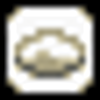
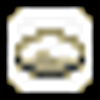
Add scroll button to jump to next crop on mobile; sharpen weather button images

diff --git a/dist/bundle.js b/dist/bundle.js
@@ -1,1 +1,1 @@
-(()=>{var t={891:(t,e,a)=>{"use strict";a.r(e),a.d(e,{default:()=>s});const s=a.p+"images//down-arrow.png"},447:(t,e,a)=>{"use strict";a.r(e),a.d(e,{default:()=>s});const s=a.p+"images//hmsi_blizzard.png"},17:(t,e,a)=>{"use strict";a.r(e),a.d(e,{default:()=>s});const s=a.p+"images//hmsi_clear.png"},469:(t,e,a)=>{"use strict";a.r(e),a.d(e,{default:()=>s});const s=a.p+"images//hmsi_cloudy.png"},969:(t,e,a)=>{"use strict";a.r(e),a.d(e,{default:()=>s});const s=a.p+"images//hmsi_drizzle.png"},237:(t,e,a)=>{"use strict";a.r(e),a.d(e,{default:()=>s});const s=a.p+"images//hmsi_hurricane.png"},59:(t,e,a)=>{"use strict";a.r(e),a.d(e,{default:()=>s});const s=a.p+"images//hmsi_rainy.png"},565:(t,e,a)=>{"use strict";a.r(e),a.d(e,{default:()=>s});const s=a.p+"images//hmsi_snowy.png"},953:(t,e,a)=>{"use strict";a.r(e),a.d(e,{default:()=>s});const s=a.p+"images//hmsi_sunny.png"},467:(t,e,a)=>{var s={"./down-arrow.png":891,"./hmsi_blizzard.png":447,"./hmsi_clear.png":17,"./hmsi_cloudy.png":469,"./hmsi_drizzle.png":969,"./hmsi_hurricane.png":237,"./hmsi_rainy.png":59,"./hmsi_snowy.png":565,"./hmsi_sunny.png":953};function r(t){var e=n(t);return a(e)}function n(t){if(!a.o(s,t)){var e=new Error("Cannot find module '"+t+"'");throw e.code="MODULE_NOT_FOUND",e}return s[t]}r.keys=function(){return Object.keys(s)},r.resolve=n,t.exports=r,r.id=467}},e={};function a(s){var r=e[s];if(void 0!==r)return r.exports;var n=e[s]={exports:{}};return t[s](n,n.exports,a),n.exports}a.d=(t,e)=>{for(var s in e)a.o(e,s)&&!a.o(t,s)&&Object.defineProperty(t,s,{enumerable:!0,get:e[s]})},a.g=function(){if("object"==typeof globalThis)return globalThis;try{return this||new Function("return this")()}catch(t){if("object"==typeof window)return window}}(),a.o=(t,e)=>Object.prototype.hasOwnProperty.call(t,e),a.r=t=>{"undefined"!=typeof Symbol&&Symbol.toStringTag&&Object.defineProperty(t,Symbol.toStringTag,{value:"Module"}),Object.defineProperty(t,"__esModule",{value:!0})},(()=>{var t;a.g.importScripts&&(t=a.g.location+"");var e=a.g.document;if(!t&&e&&(e.currentScript&&(t=e.currentScript.src),!t)){var s=e.getElementsByTagName("script");s.length&&(t=s[s.length-1].src)}if(!t)throw new Error("Automatic publicPath is not supported in this browser");t=t.replace(/#.*$/,"").replace(/\?.*$/,"").replace(/\/[^\/]+$/,"/"),a.p=t})(),(()=>{"use strict";a.p;const t=function(){let t=0;return{getNewId:()=>(t++,localStorage.setItem("localCropId",JSON.stringify(t)),t),updateIdWithLocal:e=>{t=Number(e)}}}();class e{constructor(e){this._totalDays=e._totalDays||0,this._totalWater=e._totalWater||0,this._totalSun=e._totalSun||0,this._ages=[{stage:"withered"}],this._currentAge=e._currentAge||0,this._id=e._id||t.getNewId(),this._regrow=!1,this._previousTotals}increaseDays(){this._totalDays++}increaseWater(t){this._totalWater+=t}increaseSun(t){this._totalSun+=t}get age(){return this._ages[this._currentAge]}get id(){return this._id}get regrowStatus(){return this._regrow}get water(){return this._totalWater}get sun(){return this._totalSun}get waterNeeded(){if(!this.age.water)return"Water N/A";const t=this.age.water.min-this._totalWater;return t>=0?`Water Needed: ${t}`:"Max Water: "+(this.age.water.max-this._totalWater)}get sunNeeded(){if(!this.age.sun)return"Sun N/A";const t=this.age.sun.min-this._totalSun;return t>=0?`Sun Needed: ${t}`:"Max Sun: "+(this.age.sun.max-this._totalSun)}get daysNeeded(){if(!this.age.days)return"Days N/A";const t=this.age.days-this._totalDays;return t>=0?`Days Left: ${t}`:"Days Left: 0"}nextDay(t){this._previousTotals=[this._currentAge,this._totalDays,this._totalWater,this._totalSun],this.increaseDays(),this.increaseSun(t.sun),this.increaseWater(t.water),this.checkStatus()}resetTotals(){this._totalDays=0,this._totalWater=0,this._totalSun=0}regrowCrop(){if(this._regrow){let t=this._ages.find((t=>t.stage===this._regrow)),e=this._ages.indexOf(t);this._currentAge=e}}ageCrop(){this._currentAge++,this.resetTotals()}witherCrop(){let t=this._ages.find((t=>"withered"===t.stage));this._currentAge=this._ages.indexOf(t)}removeLastDay(){this._previousTotals&&([this._currentAge,this._totalDays,this._totalWater,this._totalSun]=this._previousTotals)}checkStatus(){let t=this.age;if("withered"!==t.stage)if(this._totalWater>t.water.max||this._totalSun>t.sun.max)this.witherCrop();else if(this._totalDays>=t.days){if("mature"===t.stage)return void this.witherCrop();this._totalWater>=t.water.min&&this._totalSun>=t.sun.min&&this.ageCrop()}}}const s={Turnip:class extends e{constructor(t={}){super(t),this.cropType="Turnip",this._ages.unshift({stage:"seed",days:2,sun:{min:3,max:19},water:{min:2,max:19}},{stage:"sprout",days:2,sun:{min:3,max:19},water:{min:2,max:19}},{stage:"mature",days:10,sun:{max:39},water:{max:19}})}},Potato:class extends e{constructor(t={}){super(t),this.cropType="Potato",this._ages.unshift({stage:"seed",days:3,sun:{min:4,max:19},water:{min:3,max:19}},{stage:"sprout",days:4,sun:{min:6,max:27},water:{min:4,max:27}},{stage:"mature",days:10,sun:{max:19},water:{max:9}})}},Cucumber:class extends e{constructor(t={}){super(t),this.cropType="Cucumber",this._ages.unshift({stage:"seed",days:4,sun:{min:7,max:29},water:{min:3,max:11}},{stage:"sprout",days:3,sun:{min:5,max:23},water:{min:2,max:7}},{stage:"sprout2",days:2,sun:{min:4,max:17},water:{min:2,max:9}},{stage:"mature",days:10,sun:{max:19},water:{max:7}}),this._regrow="sprout2"}},Cabbage:class extends e{constructor(t={}){super(t),this.cropType="Cabbage",this._ages.unshift({stage:"seed",days:4,sun:{min:9,max:24},water:{min:3,max:11}},{stage:"sprout",days:5,sun:{min:12,max:29},water:{min:4,max:11}},{stage:"sprout2",days:5,sun:{min:12,max:26},water:{min:5,max:15}},{stage:"mature",days:10,sun:{max:9},water:{max:9}})}},Strawberry:class extends e{constructor(t={}){super(t),this.cropType="Strawberry",this._ages.unshift({stage:"seed",days:4,sun:{min:4,max:9},water:{min:4,max:11}},{stage:"sprout",days:3,sun:{min:3,max:9},water:{min:3,max:11}},{stage:"sprout2",days:2,sun:{min:3,max:5},water:{min:2,max:7}},{stage:"mature",days:10,sun:{max:9},water:{max:9}}),this._regrow="sprout2"}},Tomato:class extends e{constructor(t={}){super(t),this.cropType="Tomato",this._ages.unshift({stage:"seed",days:3,sun:{min:7,max:24},water:{min:3,max:11}},{stage:"sprout",days:3,sun:{min:7,max:24},water:{min:2,max:9}},{stage:"sprout2",days:3,sun:{min:7,max:19},water:{min:2,max:9}},{stage:"sprout3",days:3,sun:{min:9,max:24},water:{min:2,max:11}},{stage:"mature",days:10,sun:{max:19},water:{max:7}}),this._regrow="sprout3"}},Corn:class extends e{constructor(t={}){super(t),this.cropType="Corn",this._ages.unshift({stage:"seed",days:3,sun:{min:5,max:9},water:{min:3,max:11}},{stage:"sprout",days:4,sun:{min:8,max:19},water:{min:4,max:19}},{stage:"sprout2",days:4,sun:{min:8,max:24},water:{min:4,max:19}},{stage:"sprout3",days:3,sun:{min:8,max:24},water:{min:3,max:15}},{stage:"mature",days:10,sun:{max:19},water:{max:19}}),this._regrow="sprout3"}},Onion:class extends e{constructor(t={}){super(t),this.cropType="Onion",this._ages.unshift({stage:"seed",days:3,sun:{min:3,max:14},water:{min:3,max:9}},{stage:"sprout",days:4,sun:{min:4,max:29},water:{min:4,max:13}},{stage:"mature",days:10,sun:{max:14},water:{max:9}})}},Pumpkin:class extends e{constructor(t={}){super(t),this.cropType="Pumpkin",this._ages.unshift({stage:"seed",days:4,sun:{min:12,max:29},water:{min:4,max:11}},{stage:"sprout",days:5,sun:{min:13,max:39},water:{min:5,max:13}},{stage:"sprout2",days:5,sun:{min:16,max:39},water:{min:5,max:15}},{stage:"mature",days:10,sun:{max:19},water:{max:5}})}},Pineapple:class extends e{constructor(t={}){super(t),this.cropType="Pineapple",this._ages.unshift({stage:"seed",days:5,sun:{min:12,max:34},water:{min:5,max:15}},{stage:"sprout",days:5,sun:{min:12,max:29},water:{min:6,max:19}},{stage:"sprout2",days:5,sun:{min:10,max:34},water:{min:6,max:15}},{stage:"mature",days:10,sun:{max:19},water:{max:11}}),this._regrow="sprout2"}},Eggplant:class extends e{constructor(t={}){super(t),this.cropType="Eggplant",this._ages.unshift({stage:"seed",days:3,sun:{min:5,max:22},water:{min:3,max:11}},{stage:"sprout",days:3,sun:{min:8,max:24},water:{min:4,max:13}},{stage:"sprout2",days:3,sun:{min:8,max:24},water:{min:3,max:15}},{stage:"mature",days:10,sun:{max:19},water:{max:9}}),this._regrow="sprout2"}},Carrot:class extends e{constructor(t={}){super(t),this.cropType="Carrot",this._ages.unshift({stage:"seed",days:3,sun:{min:5,max:19},water:{min:3,max:11}},{stage:"sprout",days:4,sun:{min:6,max:24},water:{min:4,max:15}},{stage:"mature",days:10,sun:{max:14},water:{max:3}})}},Yam:class extends e{constructor(t={}){super(t),this.cropType="Yam",this._ages.unshift({stage:"seed",days:1,sun:{min:2,max:5},water:{min:1,max:7}},{stage:"sprout",days:2,sun:{min:3,max:11},water:{min:1,max:3}},{stage:"sprout2",days:2,sun:{min:3,max:9},water:{min:1,max:3}},{stage:"mature",days:10,sun:{max:14},water:{max:3}}),this._regrow="sprout2"}},Spinach:class extends e{constructor(t={}){super(t),this.cropType="Spinach",this._ages.unshift({stage:"seed",days:2,sun:{min:2,max:9},water:{min:2,max:7}},{stage:"sprout",days:3,sun:{min:3,max:11},water:{min:2,max:7}},{stage:"mature",days:10,sun:{max:9},water:{max:3}})}},BellPepper:class extends e{constructor(t={}){super(t),this.cropType="BellPepper",this._ages.unshift({stage:"seed",days:2,sun:{min:5,max:17},water:{min:2,max:9}},{stage:"sprout",days:1,sun:{min:3,max:9},water:{min:1,max:5}},{stage:"sprout2",days:2,sun:{min:4,max:11},water:{min:2,max:15}},{stage:"sprout3",days:2,sun:{min:4,max:11},water:{min:1,max:15}},{stage:"mature",days:10,sun:{max:19},water:{max:9}}),this._regrow="sprout3"}}},r={Spring:["Turnip","Potato","Cucumber","Cabbage","Strawberry"],Summer:["Tomato","Corn","Onion","Pumpkin","Pineapple"],Fall:["Eggplant","Carrot","Yam","Spinach","BellPepper"]},n=function(){let t=[];return{weatherButton:e=>{t[0]=e,localStorage.setItem("localLastWeatherPressed",JSON.stringify(t[0]))},getLastWeather:()=>t[0],getLocalLastWeather:e=>{let a=JSON.parse(e);t[0]=a},removeLastWeather:()=>t.pop()}}(),i=function(){let t=[];const e=()=>{localStorage.setItem("localMyCrops",JSON.stringify(t))},a=e=>t.find((t=>t.id===Number(e.getAttribute("data-id"))));return{getCrops:()=>t,addCrop:e=>{const a=n.getLastWeather();document.getElementById("apply-days-weather").checked&&a&&(e.increaseWater(a.water),e.increaseSun(a.sun)),t.push(e)},removeCrop:s=>{let r=a(s),n=t.indexOf(r);t.splice(n,1),e()},checkRegrow:t=>{let s=a(t);return!!s.regrowStatus&&(s.regrowCrop(),e(),s)},waterCrop:t=>{let s=a(t);return s.increaseWater(1),e(),s},undoLastWeather:()=>{n.removeLastWeather()&&t.forEach((t=>t.removeLastDay())),e()},replaceWithLocalCrops:e=>{let a=[],r=JSON.parse(e);for(let t of r){let e=new s[t.cropType](t);a.push(e)}t=a},setLocalCrops:e}}(),o=function(t,e){const a=document.createElement(t);return a.classList.add(e),a},u=function(t){let e=t.split(""),a=e.slice(1).find((t=>t.match(/[A-Z]/)));if(a){let t=e.slice(1).indexOf(a);return e.splice(t+1,0," "),e.join("")}return t},m=function(t,e,a){const s={name:`${u(a.constructor.name)}`,stage:`Stage: ${a.age.stage}`,days:`${a.daysNeeded}`,water:`${a.waterNeeded}`,sun:`${a.sunNeeded}`};t.innerText=s[e]},c=function(t,e){const a=t.querySelector(".growing-crop-stage");m(a,"stage",e),function(t,e){"mature"===e.age.stage?t.classList.remove("hidden"):t.classList.add("hidden")}(t.querySelector(".harvest-button"),e);const s=t.querySelector(".growing-crop-days");m(s,"days",e);const r=t.querySelector(".growing-crop-water");m(r,"water",e);const n=t.querySelector(".growing-crop-sun");m(n,"sun",e)},d=function(){return document.getElementById("current-crops")},g=function(t){d().removeChild(t)},p=function(t){return t.closest(".growing-crop")},l=function(){const t=p(this);confirm("Really remove?")&&(i.removeCrop(t),g(t))},h=function(){const t=p(this);if(confirm("Harvest crop?")){let e=i.checkRegrow(t);e?c(t,e):(i.removeCrop(t),g(t))}},w=function(){const t=p(this);let e=i.waterCrop(t);c(t,e)},y=function(t){const e=d(),a=function(t){const e=o("div","growing-crop");e.setAttribute("data-id",t.id);const a=o("span","growing-crop-name");return m(a,"name",t),[a,o("span","growing-crop-stage"),o("span","growing-crop-days"),o("span","growing-crop-water"),o("span","growing-crop-sun"),function(){const t=o("div","growing-crop-buttons"),e=o("button","harvest-button"),a=o("button","scythe-button"),s=o("button","water-button");return e.innerText="Harvest",e.classList.add("hidden"),a.innerText="Scythe",s.innerText="Water",e.addEventListener("click",h),a.addEventListener("click",l),s.addEventListener("click",w),t.appendChild(e),t.appendChild(a),t.appendChild(s),t}()].forEach((t=>e.appendChild(t))),c(e,t),e}(t);e.appendChild(a)},x=function(){i.getCrops().forEach((t=>{const e=document.querySelector(`[data-id="${t.id}"]`);c(e,t)}))},f=function(){return document.getElementById("new-crop-dropdown")},_=function(t){const e=f();if(e){let a=r[t];for(let t of a){let a=document.createElement("option");a.value=t,a.setAttribute("name",t),a.innerText=u(t),e.appendChild(a)}}},S=function(){const t=f();if(t)for(;t.lastChild;)t.removeChild(t.lastChild);_(this.value)},v=[{weather:"sunny",sun:3,water:0},{weather:"clear",sun:2,water:0},{weather:"cloudy",sun:1,water:0},{weather:"drizzle",sun:0,water:1},{weather:"rainy",sun:0,water:2},{weather:"snowy",sun:0,water:2},{weather:"blizzard",sun:0,water:3},{weather:"hurricane",sun:0,water:3}];a(467);const C=function(){const t=this.closest(".weather-button"),e=v.find((e=>e.weather===t.getAttribute("data-weather")));var a;a=e,i.getCrops().forEach((t=>t.nextDay(a))),i.setLocalCrops(),n.weatherButton(e),x()};document.getElementById("calculator-body")&&(function(){document.querySelectorAll(".weather-button img").forEach((t=>{t.addEventListener("click",C)})),document.getElementById("weather-buttons-undo").addEventListener("click",(()=>{i.undoLastWeather(),x()}));const t=document.getElementById("add-crops-form");t.addEventListener("submit",(t=>function(t){t.preventDefault();let e=function(t){const e=new(0,s[t]);return i.addCrop(e),i.setLocalCrops(),e}(Object.fromEntries(new FormData(t.target).entries()).type);y(e)}(t))),document.getElementById("add-crops-reveal").addEventListener("click",(t=>function(t){const e=document.getElementById("add-crops");e.classList.toggle("hidden"),e.classList.contains("hidden")?t.target.innerText="+":t.target.innerText="-"}(t))),t.querySelectorAll('input[name="season"]').forEach((t=>t.addEventListener("change",S)))}(),_("Spring"),function(){if(function(t){var e;try{e=window.localStorage;var a="__storage_test__";return e.setItem(a,a),e.removeItem(a),!0}catch(t){return t instanceof DOMException&&(22===t.code||1014===t.code||"QuotaExceededError"===t.name||"NS_ERROR_DOM_QUOTA_REACHED"===t.name)&&e&&0!==e.length}}()){let e=localStorage.getItem("localMyCrops"),a=localStorage.getItem("localCropId"),s=localStorage.getItem("localLastWeatherPressed");if(e){i.replaceWithLocalCrops(e);for(let t of i.getCrops())y(t);a&&t.updateIdWithLocal(a),s&&n.getLocalLastWeather(s)}}}())})()})();
+(()=>{var t={891:(t,e,s)=>{"use strict";s.r(e),s.d(e,{default:()=>a});const a=s.p+"images//down-arrow.png"},447:(t,e,s)=>{"use strict";s.r(e),s.d(e,{default:()=>a});const a=s.p+"images//hmsi_blizzard.png"},17:(t,e,s)=>{"use strict";s.r(e),s.d(e,{default:()=>a});const a=s.p+"images//hmsi_clear.png"},469:(t,e,s)=>{"use strict";s.r(e),s.d(e,{default:()=>a});const a=s.p+"images//hmsi_cloudy.png"},969:(t,e,s)=>{"use strict";s.r(e),s.d(e,{default:()=>a});const a=s.p+"images//hmsi_drizzle.png"},237:(t,e,s)=>{"use strict";s.r(e),s.d(e,{default:()=>a});const a=s.p+"images//hmsi_hurricane.png"},59:(t,e,s)=>{"use strict";s.r(e),s.d(e,{default:()=>a});const a=s.p+"images//hmsi_rainy.png"},565:(t,e,s)=>{"use strict";s.r(e),s.d(e,{default:()=>a});const a=s.p+"images//hmsi_snowy.png"},953:(t,e,s)=>{"use strict";s.r(e),s.d(e,{default:()=>a});const a=s.p+"images//hmsi_sunny.png"},467:(t,e,s)=>{var a={"./down-arrow.png":891,"./hmsi_blizzard.png":447,"./hmsi_clear.png":17,"./hmsi_cloudy.png":469,"./hmsi_drizzle.png":969,"./hmsi_hurricane.png":237,"./hmsi_rainy.png":59,"./hmsi_snowy.png":565,"./hmsi_sunny.png":953};function r(t){var e=n(t);return s(e)}function n(t){if(!s.o(a,t)){var e=new Error("Cannot find module '"+t+"'");throw e.code="MODULE_NOT_FOUND",e}return a[t]}r.keys=function(){return Object.keys(a)},r.resolve=n,t.exports=r,r.id=467}},e={};function s(a){var r=e[a];if(void 0!==r)return r.exports;var n=e[a]={exports:{}};return t[a](n,n.exports,s),n.exports}s.d=(t,e)=>{for(var a in e)s.o(e,a)&&!s.o(t,a)&&Object.defineProperty(t,a,{enumerable:!0,get:e[a]})},s.g=function(){if("object"==typeof globalThis)return globalThis;try{return this||new Function("return this")()}catch(t){if("object"==typeof window)return window}}(),s.o=(t,e)=>Object.prototype.hasOwnProperty.call(t,e),s.r=t=>{"undefined"!=typeof Symbol&&Symbol.toStringTag&&Object.defineProperty(t,Symbol.toStringTag,{value:"Module"}),Object.defineProperty(t,"__esModule",{value:!0})},(()=>{var t;s.g.importScripts&&(t=s.g.location+"");var e=s.g.document;if(!t&&e&&(e.currentScript&&(t=e.currentScript.src),!t)){var a=e.getElementsByTagName("script");a.length&&(t=a[a.length-1].src)}if(!t)throw new Error("Automatic publicPath is not supported in this browser");t=t.replace(/#.*$/,"").replace(/\?.*$/,"").replace(/\/[^\/]+$/,"/"),s.p=t})(),(()=>{"use strict";s.p;const t=function(){let t=0;return{getNewId:()=>(t++,localStorage.setItem("localCropId",JSON.stringify(t)),t),updateIdWithLocal:e=>{t=Number(e)}}}();class e{constructor(e){this._totalDays=e._totalDays||0,this._totalWater=e._totalWater||0,this._totalSun=e._totalSun||0,this._ages=[{stage:"withered"}],this._currentAge=e._currentAge||0,this._id=e._id||t.getNewId(),this._regrow=!1,this._previousTotals}increaseDays(){this._totalDays++}increaseWater(t){this._totalWater+=t}increaseSun(t){this._totalSun+=t}get age(){return this._ages[this._currentAge]}get id(){return this._id}get regrowStatus(){return this._regrow}get water(){return this._totalWater}get sun(){return this._totalSun}get waterNeeded(){if(!this.age.water)return"Water N/A";const t=this.age.water.min-this._totalWater;return t>=0?`Water Needed: ${t}`:"Max Water: "+(this.age.water.max-this._totalWater)}get sunNeeded(){if(!this.age.sun)return"Sun N/A";const t=this.age.sun.min-this._totalSun;return t>=0?`Sun Needed: ${t}`:"Max Sun: "+(this.age.sun.max-this._totalSun)}get daysNeeded(){if(!this.age.days)return"Days N/A";const t=this.age.days-this._totalDays;return t>=0?`Days Left: ${t}`:"Days Left: 0"}nextDay(t){this._previousTotals=[this._currentAge,this._totalDays,this._totalWater,this._totalSun],this.increaseDays(),this.increaseSun(t.sun),this.increaseWater(t.water),this.checkStatus()}resetTotals(){this._totalDays=0,this._totalWater=0,this._totalSun=0}regrowCrop(){if(this._regrow){let t=this._ages.find((t=>t.stage===this._regrow)),e=this._ages.indexOf(t);this._currentAge=e}}ageCrop(){this._currentAge++,this.resetTotals()}witherCrop(){let t=this._ages.find((t=>"withered"===t.stage));this._currentAge=this._ages.indexOf(t)}removeLastDay(){this._previousTotals&&([this._currentAge,this._totalDays,this._totalWater,this._totalSun]=this._previousTotals)}checkStatus(){let t=this.age;if("withered"!==t.stage)if(this._totalWater>t.water.max||this._totalSun>t.sun.max)this.witherCrop();else if(this._totalDays>=t.days){if("mature"===t.stage)return void this.witherCrop();this._totalWater>=t.water.min&&this._totalSun>=t.sun.min&&this.ageCrop()}}}const a={Turnip:class extends e{constructor(t={}){super(t),this.cropType="Turnip",this._ages.unshift({stage:"seed",days:2,sun:{min:3,max:19},water:{min:2,max:19}},{stage:"sprout",days:2,sun:{min:3,max:19},water:{min:2,max:19}},{stage:"mature",days:10,sun:{max:39},water:{max:19}})}},Potato:class extends e{constructor(t={}){super(t),this.cropType="Potato",this._ages.unshift({stage:"seed",days:3,sun:{min:4,max:19},water:{min:3,max:19}},{stage:"sprout",days:4,sun:{min:6,max:27},water:{min:4,max:27}},{stage:"mature",days:10,sun:{max:19},water:{max:9}})}},Cucumber:class extends e{constructor(t={}){super(t),this.cropType="Cucumber",this._ages.unshift({stage:"seed",days:4,sun:{min:7,max:29},water:{min:3,max:11}},{stage:"sprout",days:3,sun:{min:5,max:23},water:{min:2,max:7}},{stage:"sprout2",days:2,sun:{min:4,max:17},water:{min:2,max:9}},{stage:"mature",days:10,sun:{max:19},water:{max:7}}),this._regrow="sprout2"}},Cabbage:class extends e{constructor(t={}){super(t),this.cropType="Cabbage",this._ages.unshift({stage:"seed",days:4,sun:{min:9,max:24},water:{min:3,max:11}},{stage:"sprout",days:5,sun:{min:12,max:29},water:{min:4,max:11}},{stage:"sprout2",days:5,sun:{min:12,max:26},water:{min:5,max:15}},{stage:"mature",days:10,sun:{max:9},water:{max:9}})}},Strawberry:class extends e{constructor(t={}){super(t),this.cropType="Strawberry",this._ages.unshift({stage:"seed",days:4,sun:{min:4,max:9},water:{min:4,max:11}},{stage:"sprout",days:3,sun:{min:3,max:9},water:{min:3,max:11}},{stage:"sprout2",days:2,sun:{min:3,max:5},water:{min:2,max:7}},{stage:"mature",days:10,sun:{max:9},water:{max:9}}),this._regrow="sprout2"}},Tomato:class extends e{constructor(t={}){super(t),this.cropType="Tomato",this._ages.unshift({stage:"seed",days:3,sun:{min:7,max:24},water:{min:3,max:11}},{stage:"sprout",days:3,sun:{min:7,max:24},water:{min:2,max:9}},{stage:"sprout2",days:3,sun:{min:7,max:19},water:{min:2,max:9}},{stage:"sprout3",days:3,sun:{min:9,max:24},water:{min:2,max:11}},{stage:"mature",days:10,sun:{max:19},water:{max:7}}),this._regrow="sprout3"}},Corn:class extends e{constructor(t={}){super(t),this.cropType="Corn",this._ages.unshift({stage:"seed",days:3,sun:{min:5,max:9},water:{min:3,max:11}},{stage:"sprout",days:4,sun:{min:8,max:19},water:{min:4,max:19}},{stage:"sprout2",days:4,sun:{min:8,max:24},water:{min:4,max:19}},{stage:"sprout3",days:3,sun:{min:8,max:24},water:{min:3,max:15}},{stage:"mature",days:10,sun:{max:19},water:{max:19}}),this._regrow="sprout3"}},Onion:class extends e{constructor(t={}){super(t),this.cropType="Onion",this._ages.unshift({stage:"seed",days:3,sun:{min:3,max:14},water:{min:3,max:9}},{stage:"sprout",days:4,sun:{min:4,max:29},water:{min:4,max:13}},{stage:"mature",days:10,sun:{max:14},water:{max:9}})}},Pumpkin:class extends e{constructor(t={}){super(t),this.cropType="Pumpkin",this._ages.unshift({stage:"seed",days:4,sun:{min:12,max:29},water:{min:4,max:11}},{stage:"sprout",days:5,sun:{min:13,max:39},water:{min:5,max:13}},{stage:"sprout2",days:5,sun:{min:16,max:39},water:{min:5,max:15}},{stage:"mature",days:10,sun:{max:19},water:{max:5}})}},Pineapple:class extends e{constructor(t={}){super(t),this.cropType="Pineapple",this._ages.unshift({stage:"seed",days:5,sun:{min:12,max:34},water:{min:5,max:15}},{stage:"sprout",days:5,sun:{min:12,max:29},water:{min:6,max:19}},{stage:"sprout2",days:5,sun:{min:10,max:34},water:{min:6,max:15}},{stage:"mature",days:10,sun:{max:19},water:{max:11}}),this._regrow="sprout2"}},Eggplant:class extends e{constructor(t={}){super(t),this.cropType="Eggplant",this._ages.unshift({stage:"seed",days:3,sun:{min:5,max:22},water:{min:3,max:11}},{stage:"sprout",days:3,sun:{min:8,max:24},water:{min:4,max:13}},{stage:"sprout2",days:3,sun:{min:8,max:24},water:{min:3,max:15}},{stage:"mature",days:10,sun:{max:19},water:{max:9}}),this._regrow="sprout2"}},Carrot:class extends e{constructor(t={}){super(t),this.cropType="Carrot",this._ages.unshift({stage:"seed",days:3,sun:{min:5,max:19},water:{min:3,max:11}},{stage:"sprout",days:4,sun:{min:6,max:24},water:{min:4,max:15}},{stage:"mature",days:10,sun:{max:14},water:{max:3}})}},Yam:class extends e{constructor(t={}){super(t),this.cropType="Yam",this._ages.unshift({stage:"seed",days:1,sun:{min:2,max:5},water:{min:1,max:7}},{stage:"sprout",days:2,sun:{min:3,max:11},water:{min:1,max:3}},{stage:"sprout2",days:2,sun:{min:3,max:9},water:{min:1,max:3}},{stage:"mature",days:10,sun:{max:14},water:{max:3}}),this._regrow="sprout2"}},Spinach:class extends e{constructor(t={}){super(t),this.cropType="Spinach",this._ages.unshift({stage:"seed",days:2,sun:{min:2,max:9},water:{min:2,max:7}},{stage:"sprout",days:3,sun:{min:3,max:11},water:{min:2,max:7}},{stage:"mature",days:10,sun:{max:9},water:{max:3}})}},BellPepper:class extends e{constructor(t={}){super(t),this.cropType="BellPepper",this._ages.unshift({stage:"seed",days:2,sun:{min:5,max:17},water:{min:2,max:9}},{stage:"sprout",days:1,sun:{min:3,max:9},water:{min:1,max:5}},{stage:"sprout2",days:2,sun:{min:4,max:11},water:{min:2,max:15}},{stage:"sprout3",days:2,sun:{min:4,max:11},water:{min:1,max:15}},{stage:"mature",days:10,sun:{max:19},water:{max:9}}),this._regrow="sprout3"}}},r={Spring:["Turnip","Potato","Cucumber","Cabbage","Strawberry"],Summer:["Tomato","Corn","Onion","Pumpkin","Pineapple"],Fall:["Eggplant","Carrot","Yam","Spinach","BellPepper"]},n=function(){let t=[];return{weatherButton:e=>{t[0]=e,localStorage.setItem("localLastWeatherPressed",JSON.stringify(t[0]))},getLastWeather:()=>t[0],getLocalLastWeather:e=>{let s=JSON.parse(e);t[0]=s},removeLastWeather:()=>t.pop()}}(),i=function(){let t=[];const e=()=>{localStorage.setItem("localMyCrops",JSON.stringify(t))},s=e=>t.find((t=>t.id===Number(e.getAttribute("data-id"))));return{getCrops:()=>t,addCrop:e=>{const s=n.getLastWeather();document.getElementById("apply-days-weather").checked&&s&&(e.increaseWater(s.water),e.increaseSun(s.sun)),t.push(e)},removeCrop:a=>{let r=s(a),n=t.indexOf(r);t.splice(n,1),e()},checkRegrow:t=>{let a=s(t);return!!a.regrowStatus&&(a.regrowCrop(),e(),a)},waterCrop:t=>{let a=s(t);return a.increaseWater(1),e(),a},undoLastWeather:()=>{n.removeLastWeather()&&t.forEach((t=>t.removeLastDay())),e()},replaceWithLocalCrops:e=>{let s=[],r=JSON.parse(e);for(let t of r){let e=new a[t.cropType](t);s.push(e)}t=s},setLocalCrops:e}}(),o=function(t,e){const s=document.createElement(t);return s.classList.add(e),s},u=function(t){let e=t.split(""),s=e.slice(1).find((t=>t.match(/[A-Z]/)));if(s){let t=e.slice(1).indexOf(s);return e.splice(t+1,0," "),e.join("")}return t},c=function(t,e,s){const a={name:`${u(s.constructor.name)}`,stage:`Stage: ${s.age.stage}`,days:`${s.daysNeeded}`,water:`${s.waterNeeded}`,sun:`${s.sunNeeded}`};t.innerText=a[e]},m=function(t,e){const s=t.querySelector(".growing-crop-stage");c(s,"stage",e),function(t,e){"mature"===e.age.stage?t.classList.remove("hidden"):t.classList.add("hidden")}(t.querySelector(".harvest-button"),e);const a=t.querySelector(".growing-crop-days");c(a,"days",e);const r=t.querySelector(".growing-crop-water");c(r,"water",e);const n=t.querySelector(".growing-crop-sun");c(n,"sun",e)},d=function(){return document.getElementById("current-crops")},g=function(t){d().removeChild(t)},p=function(t){return t.closest(".growing-crop")},l=function(){const t=p(this);confirm("Really remove?")&&(i.removeCrop(t),g(t))},h=function(){const t=p(this);if(confirm("Harvest crop?")){let e=i.checkRegrow(t);e?m(t,e):(i.removeCrop(t),g(t))}},w=function(){const t=p(this);let e=i.waterCrop(t);m(t,e)},y=function(t){const e=d(),s=function(t){const e=o("div","growing-crop");e.setAttribute("data-id",t.id);const s=o("span","growing-crop-name");return c(s,"name",t),[s,o("span","growing-crop-stage"),o("span","growing-crop-days"),o("span","growing-crop-water"),o("span","growing-crop-sun"),function(){const t=o("div","growing-crop-buttons"),e=o("button","harvest-button"),s=o("button","scythe-button"),a=o("button","water-button");return e.innerText="Harvest",e.classList.add("hidden"),s.innerText="Scythe",a.innerText="Water",e.addEventListener("click",h),s.addEventListener("click",l),a.addEventListener("click",w),t.appendChild(e),t.appendChild(s),t.appendChild(a),t}()].forEach((t=>e.appendChild(t))),m(e,t),e}(t);e.appendChild(s)},x=function(){i.getCrops().forEach((t=>{const e=document.querySelector(`[data-id="${t.id}"]`);m(e,t)}))},f=function(){return document.getElementById("new-crop-dropdown")},_=function(t){const e=f();if(e){let s=r[t];for(let t of s){let s=document.createElement("option");s.value=t,s.setAttribute("name",t),s.innerText=u(t),e.appendChild(s)}}},S=function(){const t=f();if(t)for(;t.lastChild;)t.removeChild(t.lastChild);_(this.value)},v=function(){const t=document.getElementById("current-crops"),e=[...t.querySelectorAll(".growing-crop")],s=t.offsetTop;let a,r=window.pageYOffset;a=0===e.length?t.offsetTop:r<s?e[0].offsetTop:e.find((t=>t.offsetTop>r)).offsetTop,window.scrollTo(0,a)},C=[{weather:"sunny",sun:3,water:0},{weather:"clear",sun:2,water:0},{weather:"cloudy",sun:1,water:0},{weather:"drizzle",sun:0,water:1},{weather:"rainy",sun:0,water:2},{weather:"snowy",sun:0,water:2},{weather:"blizzard",sun:0,water:3},{weather:"hurricane",sun:0,water:3}];s(467);const b=function(){const t=this.closest(".weather-button"),e=C.find((e=>e.weather===t.getAttribute("data-weather")));var s;s=e,i.getCrops().forEach((t=>t.nextDay(s))),i.setLocalCrops(),n.weatherButton(e),x()};document.getElementById("calculator-body")&&(function(){document.querySelectorAll(".weather-button img").forEach((t=>{t.addEventListener("click",b)})),document.getElementById("weather-buttons-undo").addEventListener("click",(()=>{i.undoLastWeather(),x()}));const t=document.getElementById("add-crops-form");t.addEventListener("submit",(t=>function(t){t.preventDefault();let e=function(t){const e=new(0,a[t]);return i.addCrop(e),i.setLocalCrops(),e}(Object.fromEntries(new FormData(t.target).entries()).type);y(e)}(t))),document.getElementById("add-crops-reveal").addEventListener("click",(t=>function(t){const e=document.getElementById("add-crops");e.classList.toggle("hidden"),e.classList.contains("hidden")?t.target.innerText="+":t.target.innerText="-"}(t))),t.querySelectorAll('input[name="season"]').forEach((t=>t.addEventListener("change",S))),document.getElementById("next-crop-anchor").addEventListener("click",v)}(),_("Spring"),function(){if(function(t){var e;try{e=window.localStorage;var s="__storage_test__";return e.setItem(s,s),e.removeItem(s),!0}catch(t){return t instanceof DOMException&&(22===t.code||1014===t.code||"QuotaExceededError"===t.name||"NS_ERROR_DOM_QUOTA_REACHED"===t.name)&&e&&0!==e.length}}()){let e=localStorage.getItem("localMyCrops"),s=localStorage.getItem("localCropId"),a=localStorage.getItem("localLastWeatherPressed");if(e){i.replaceWithLocalCrops(e);for(let t of i.getCrops())y(t);s&&t.updateIdWithLocal(s),a&&n.getLocalLastWeather(a)}}}())})()})();

diff --git a/dist/css/style.min.css b/dist/css/style.min.css
@@ -1,1 +1,1 @@
-html{font-family:"Chango", cursive;font-size:22px}body{font-size:1rem;margin:0;overflow-x:hidden;color:#333}.limited-container{max-width:1200px}#next-crop-anchor{position:fixed;bottom:0.25rem;right:0.25rem;width:2rem;height:2rem;cursor:pointer;border-radius:50%;background:#c09050 url("../images/down-arrow.png") no-repeat center;background-size:1rem;z-index:40}#next-crop-anchor::before{content:"";background-image:url("../images/down-arrow.png");background-size:20px}#calculator-body{text-align:center;padding:12px}#calculator-body #weather-buttons-container{display:grid;width:100%;grid-template-columns:1fr 1fr}#calculator-body #weather-buttons-container .weather-button{margin:10px}#calculator-body #weather-buttons-container .weather-button img{cursor:pointer;border-radius:8px;width:25vw;max-width:100px;-webkit-box-shadow:0px 0px 3px 3px #c09050;box-shadow:0px 0px 3px 3px #c09050}#calculator-body #weather-buttons-container .weather-button img:hover,#calculator-body #weather-buttons-container .weather-button img:focus{-webkit-box-shadow:0px 0px 8px 3px #1838b8;box-shadow:0px 0px 8px 3px #1838b8}@media only screen and (min-width: 678px){#calculator-body #weather-buttons-container{grid-template-columns:repeat(3, 1fr)}}@media only screen and (min-width: 900px){#calculator-body #weather-buttons-container{grid-template-columns:repeat(4, 1fr)}}#calculator-body #weather-buttons-undo{cursor:pointer;padding:8px;font-family:inherit;font-size:0.75rem;color:white;border:none;border-radius:6px;-webkit-box-shadow:0px 8px 6px -5px #919191;box-shadow:0px 8px 6px -5px #919191;margin-top:22px;background-color:#c09050}#calculator-body #weather-buttons-undo:hover{background-color:#78572b;color:#f2f2f2}#add-crops{position:absolute;top:0;right:0;max-width:75vw;width:600px;background-color:#c09050;z-index:30;border-radius:6px 0px 0px 6px;padding:12px;-webkit-box-shadow:0px 0px 10px 4px #919191;box-shadow:0px 0px 10px 4px #919191;transition:transform 0.25s ease-in}#add-crops.hidden{transform:translateX(100%);transition:transform 0.25s ease-out}#add-crops label{margin-top:10px}#add-crops #add-crops-reveal{position:absolute;top:0;left:-1.75rem;width:2rem;height:2rem;display:flex;align-items:center;justify-content:center;min-width:max-content;cursor:pointer;background-color:#c09050;border-radius:6px 0px 0px 6px;-webkit-box-shadow:-4px 0px 4px 0px #919191;box-shadow:-4px 0px 4px 0px #919191}#add-crops .season-radio-buttons{display:flex;flex-direction:column}@media only screen and (min-width: 678px){#add-crops .season-radio-buttons{flex-direction:row;justify-content:center}#add-crops .season-radio-buttons label{padding:10px}}#add-crops .select-crop-box{margin:20px 0px}#add-crops .select-crop-box #new-crop-dropdown{appearance:none;cursor:pointer;padding:8px;font-family:inherit;font-size:0.75rem;color:white;border:none;border-radius:6px;-webkit-box-shadow:0px 8px 6px -5px #919191;box-shadow:0px 8px 6px -5px #919191;color:white;border:2px inset #c09050;box-shadow:none;background-color:#d3b185;background-image:url("../images/down-arrow.png");background-repeat:no-repeat;background-position:95%;background-size:0.75rem;min-width:8rem}#add-crops .select-crop-box [type="submit"]{cursor:pointer;padding:8px;font-family:inherit;font-size:0.75rem;color:white;border:none;border-radius:6px;-webkit-box-shadow:0px 8px 6px -5px #919191;box-shadow:0px 8px 6px -5px #919191;background-color:#48a840}#add-crops .select-crop-box [type="submit"]:hover{background-color:#2b6526;color:#f2f2f2}@media only screen and (min-width: 678px){#add-crops{text-align:center}}#current-crops{max-width:1200px;display:grid;padding:12px}@media only screen and (min-width: 678px){#current-crops{grid-template-columns:repeat(2, 1fr);justify-items:center}}@media only screen and (min-width: 900px){#current-crops{grid-template-columns:repeat(3, 1fr);justify-items:center}}#current-crops .growing-crop{display:flex;flex-direction:column;padding:20px 0px;position:relative}#current-crops .growing-crop::after{content:"";position:absolute;left:20px;bottom:0;width:50%;border-bottom:2px solid darkblue}#current-crops .growing-crop span{padding:6px 20px}#current-crops .growing-crop .growing-crop-buttons{padding:6px 20px;display:grid;grid-template-columns:repeat(3, 1fr);grid-gap:10px}#current-crops .growing-crop .growing-crop-buttons button{cursor:pointer;padding:8px;font-family:inherit;font-size:0.75rem;color:white;border:none;border-radius:6px;-webkit-box-shadow:0px 8px 6px -5px #919191;box-shadow:0px 8px 6px -5px #919191}#current-crops .growing-crop .growing-crop-buttons button.hidden{display:none}#current-crops .growing-crop .growing-crop-buttons button.scythe-button{background-color:#919191}#current-crops .growing-crop .growing-crop-buttons button.scythe-button:hover{background-color:#575757;color:#f2f2f2}#current-crops .growing-crop .growing-crop-buttons button.water-button{background-color:#1838b8}#current-crops .growing-crop .growing-crop-buttons button.water-button:hover{background-color:#0e226e;color:#f2f2f2}#current-crops .growing-crop .growing-crop-buttons button.harvest-button{background-color:#48a840}#current-crops .growing-crop .growing-crop-buttons button.harvest-button:hover{background-color:#2b6526;color:#f2f2f2}
+html{font-family:"Chango", cursive;font-size:22px}body{font-size:1rem;margin:0;overflow-x:hidden;color:#333}.limited-container{max-width:1200px}#next-crop-anchor{position:fixed;bottom:0.25rem;right:0.25rem;width:2rem;height:2rem;cursor:pointer;border-radius:50%;background:#c09050 url("../images/down-arrow.png") no-repeat center;background-size:1rem;z-index:40}@media only screen and (min-width: 900px){#next-crop-anchor{display:none}}#calculator-body{text-align:center;padding:12px}#calculator-body #weather-buttons-container{display:grid;width:100%;grid-template-columns:1fr 1fr}#calculator-body #weather-buttons-container .weather-button{margin:10px}#calculator-body #weather-buttons-container .weather-button img{cursor:pointer;border-radius:8px;width:25vw;max-width:100px;-webkit-box-shadow:0px 0px 3px 3px #c09050;box-shadow:0px 0px 3px 3px #c09050}#calculator-body #weather-buttons-container .weather-button img:hover,#calculator-body #weather-buttons-container .weather-button img:focus{-webkit-box-shadow:0px 0px 8px 3px #1838b8;box-shadow:0px 0px 8px 3px #1838b8}@media only screen and (min-width: 678px){#calculator-body #weather-buttons-container{grid-template-columns:repeat(3, 1fr)}}@media only screen and (min-width: 900px){#calculator-body #weather-buttons-container{grid-template-columns:repeat(4, 1fr)}}#calculator-body #weather-buttons-undo{cursor:pointer;padding:8px;font-family:inherit;font-size:0.75rem;color:white;border:none;border-radius:6px;-webkit-box-shadow:0px 8px 6px -5px #919191;box-shadow:0px 8px 6px -5px #919191;margin-top:22px;background-color:#c09050}#calculator-body #weather-buttons-undo:hover{background-color:#78572b;color:#f2f2f2}#add-crops{position:fixed;top:0;right:0;max-width:75vw;width:600px;background-color:#c09050;z-index:30;border-radius:6px 0px 0px 6px;padding:12px;-webkit-box-shadow:0px 0px 10px 4px #919191;box-shadow:0px 0px 10px 4px #919191;transition:transform 0.25s ease-in}#add-crops.hidden{transform:translateX(100%);transition:transform 0.25s ease-out}#add-crops label{margin-top:10px}#add-crops #add-crops-reveal{position:absolute;top:0;left:-1.75rem;width:2rem;height:2rem;display:flex;align-items:center;justify-content:center;min-width:max-content;cursor:pointer;background-color:#c09050;border-radius:6px 0px 0px 6px;-webkit-box-shadow:-4px 0px 4px 0px #919191;box-shadow:-4px 0px 4px 0px #919191}#add-crops .season-radio-buttons{display:flex;flex-direction:column}@media only screen and (min-width: 678px){#add-crops .season-radio-buttons{flex-direction:row;justify-content:center}#add-crops .season-radio-buttons label{padding:10px}}#add-crops .select-crop-box{margin:20px 0px}#add-crops .select-crop-box #new-crop-dropdown{appearance:none;cursor:pointer;padding:8px;font-family:inherit;font-size:0.75rem;color:white;border:none;border-radius:6px;-webkit-box-shadow:0px 8px 6px -5px #919191;box-shadow:0px 8px 6px -5px #919191;color:white;border:2px inset #c09050;box-shadow:none;background-color:#d3b185;background-image:url("../images/down-arrow.png");background-repeat:no-repeat;background-position:95%;background-size:0.75rem;min-width:8rem}#add-crops .select-crop-box [type="submit"]{cursor:pointer;padding:8px;font-family:inherit;font-size:0.75rem;color:white;border:none;border-radius:6px;-webkit-box-shadow:0px 8px 6px -5px #919191;box-shadow:0px 8px 6px -5px #919191;background-color:#48a840}#add-crops .select-crop-box [type="submit"]:hover{background-color:#2b6526;color:#f2f2f2}@media only screen and (min-width: 678px){#add-crops{text-align:center}}#current-crops{max-width:1200px;display:grid;padding:12px}@media only screen and (min-width: 678px){#current-crops{grid-template-columns:repeat(2, 1fr);justify-items:center}}@media only screen and (min-width: 900px){#current-crops{grid-template-columns:repeat(3, 1fr);justify-items:center}}#current-crops .growing-crop{display:flex;flex-direction:column;padding:20px 0px;position:relative}#current-crops .growing-crop::after{content:"";position:absolute;left:20px;bottom:0;width:50%;border-bottom:2px solid #1838b8}#current-crops .growing-crop span{padding:6px 20px}#current-crops .growing-crop .growing-crop-buttons{padding:6px 20px;display:grid;grid-template-columns:repeat(3, 1fr);grid-gap:10px}#current-crops .growing-crop .growing-crop-buttons button{cursor:pointer;padding:8px;font-family:inherit;font-size:0.75rem;color:white;border:none;border-radius:6px;-webkit-box-shadow:0px 8px 6px -5px #919191;box-shadow:0px 8px 6px -5px #919191}#current-crops .growing-crop .growing-crop-buttons button.hidden{display:none}#current-crops .growing-crop .growing-crop-buttons button.scythe-button{background-color:#919191}#current-crops .growing-crop .growing-crop-buttons button.scythe-button:hover{background-color:#575757;color:#f2f2f2}#current-crops .growing-crop .growing-crop-buttons button.water-button{background-color:#1838b8}#current-crops .growing-crop .growing-crop-buttons button.water-button:hover{background-color:#0e226e;color:#f2f2f2}#current-crops .growing-crop .growing-crop-buttons button.harvest-button{background-color:#48a840}#current-crops .growing-crop .growing-crop-buttons button.harvest-button:hover{background-color:#2b6526;color:#f2f2f2}

diff --git a/src/style.scss b/src/style.scss
@@ -60,29 +60,15 @@ body {
   border-radius: 50%;
   background: $dirt-brown url("../images/down-arrow.png") no-repeat center;
   background-size: 1rem;
-  // display: flex;
-  // justify-content: center;
-  // align-items: center;
   z-index: 40;
-  &::before {
-    content: "";
-    background-image: url("../images/down-arrow.png");
-    background-size: 20px;
+  @media only screen and (min-width: 900px) {
+    display: none;
   }
 }
 
 #calculator-body {
   text-align: center;
   @include container-padding;
-
-  // #weather-points-total {
-  //   display: grid;
-  //   grid-template-columns: 1fr 1fr;
-  //   margin: 20px 0;
-  //   .points {
-  //     padding: 0 10px;
-  //   }
-  // }
 
   #weather-buttons-container {
     display: grid;
@@ -123,7 +109,7 @@ body {
 }
 
 #add-crops {
-  position: absolute;
+  position: fixed;
   top: 0;
   right: 0;
   max-width: 75vw;
@@ -222,7 +208,7 @@ body {
       left: 20px; // match padding on .growing-crop
       bottom: 0;
       width: 50%; /* or 100px */
-      border-bottom: 2px solid darkblue;
+      border-bottom: 2px solid $blue-water;
     }
     span {
       padding: 6px 20px;

diff --git a/src/domDrawing.js b/src/domDrawing.js
@@ -198,9 +198,33 @@ const updateDropdownOptions = function () {
   addNewCropSelections(this.value);
 };
 
+const jumpToNextCrop = function () {
+  const cropsContainer = document.getElementById("current-crops");
+  const cropList = [...cropsContainer.querySelectorAll(".growing-crop")];
+
+  const topOfCropsContainer = cropsContainer.offsetTop;
+  let currentScroll = window.pageYOffset;
+
+  let newScrollDestination;
+
+  if (cropList.length === 0) {
+    newScrollDestination = cropsContainer.offsetTop;
+  } else if (currentScroll < topOfCropsContainer) {
+    newScrollDestination = cropList[0].offsetTop;
+  } else {
+    let cropToScrollTo = cropList.find(
+      (crop) => crop.offsetTop > currentScroll
+    );
+    newScrollDestination = cropToScrollTo.offsetTop;
+  }
+
+  window.scrollTo(0, newScrollDestination);
+};
+
 export {
   displayNewCrop,
   refreshCurrentCrops,
   addNewCropSelections,
   updateDropdownOptions,
+  jumpToNextCrop,
 };

diff --git a/src/index.js b/src/index.js
@@ -5,6 +5,7 @@ import {
   refreshCurrentCrops,
   addNewCropSelections,
   updateDropdownOptions,
+  jumpToNextCrop,
 } from "./domDrawing.js";
 import {
   myCrops,
@@ -69,6 +70,9 @@ const addListeners = function () {
   addCropRadioButtons.forEach((button) =>
     button.addEventListener("change", updateDropdownOptions)
   );
+
+  const cropAnchorButton = document.getElementById("next-crop-anchor");
+  cropAnchorButton.addEventListener("click", jumpToNextCrop);
 };
 
 // LocalStorage test from MDN

diff --git a/README.md b/README.md
@@ -51,8 +51,8 @@ Features I intend to add in the near future:
 - [x] Add "Undo" button in case you accidentally hit a weather icon
 - [x] Add all missing crop types (except trees and grains)
 - [x] Separate crops by season
-- [ ] Mobile-specific: an anchor button to jump to the next crop and/or an overlaid navigation menu
-- [ ] General design improvements / optimizations
+- [x] Mobile-specific: an anchor button to jump to the next crop and/or an overlaid navigation menu
+- [x] General design improvements / optimizations
 
 Nice-to-have features that are lower priority:
 
@@ -69,3 +69,5 @@ Nice-to-have features that are lower priority:
 This Harvest Moon calculator is built with HTML, SCSS, and JavaScript. It uses webpack for module bundling and SCSS-to-CSS compiling and minifying. Weather and crop images, as well as values for crop growth stages, were taken from [Fogu.com](https://fogu.com/hm8/basics/weather.php) (the most useful Harvest Moon / Story of Seasons site on the web, in my huge-fan opinion). The font is "Chango" from [Google Fonts](https://fonts.google.com/specimen/Chango).
 
 I intend to use this app primarily on my phone (while playing Sunshine Islands), so it's designed mobile-first with CSS Grid. The desktop version is slightly more spread out but not really optimized for larger screen viewing.
+
+The down arrow icon used on the add crops select dropdown and the fixed anchor button is by [Roundicons](https://www.flaticon.com/authors/roundicons) from [www.flaticon.com](https://www.flaticon.com/).
